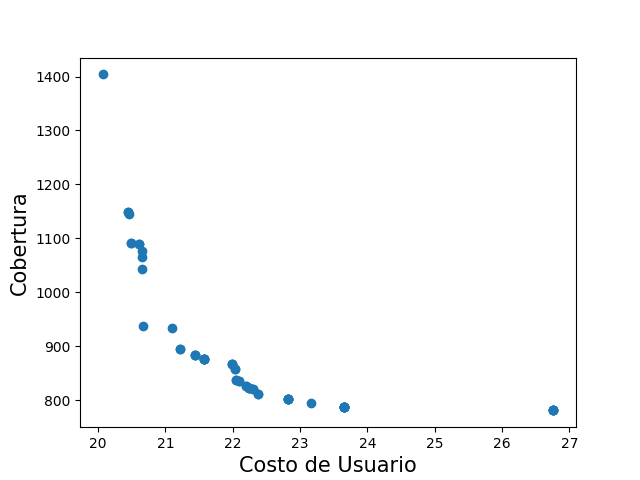
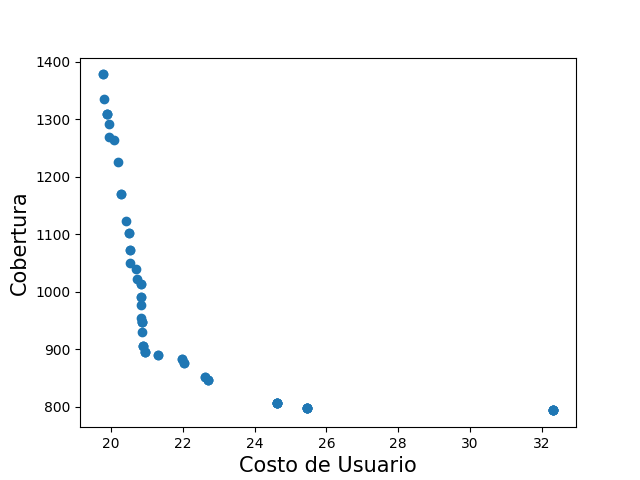
add new tests for networks

diff --git a/new_mumford0.py b/new_mumford0.py
@@ -1,30 +1,28 @@
-
+import time
 import matplotlib.pyplot as plt
 from TNDP import TNDP
-from nsga2 import NSGAII
-import time
+from migration import Migration
 
 def main():
-    num_nodes = 110
+    num_nodes = 30
     tndp = TNDP(num_nodes)
 
-    tndp.read_network_from_file("networks\\Mumford2\\mumford2_links.csv")
-    tndp.read_demand_matrix_from_file("networks\\Mumford2\\mumford2_demand.csv")
+    tndp.read_network_from_file("networks\\Mumford0\\mumford0_links.csv")
+    tndp.read_demand_matrix_from_file("networks\\Mumford0\\mumford0_demand.csv")
 
     g_user_cost = []
     g_coverage = []
-
+    
     start = time.time()
 
-    for nroutes in range(56,57):
-        nsga = NSGAII(num_of_individuals=50, generations=50, tndp=tndp, num_of_routes=nroutes, num_of_tour_particips=2, tournament_prob=0.9, min_route=10, max_route=22  )
+    for nroutes in range(12,13):
+        nsga = Migration(num_population=100, num_of_generations=200, num_islands=4, migration_every_gen=8, num_migrants=4, tndp=tndp, num_of_routes=nroutes, num_of_tour_particips=2, tournament_prob=0.9, min_route=2, max_route=15)
         """
         for i in range(len(nsga.graph.nodes)):
             for edge in nsga.graph.nodes[i]:
                 print("{} - {}".format(i, edge.to))
         """
         final_population = nsga.run()
-
 
         func = [i.objectives for i in final_population]
 
@@ -33,21 +31,21 @@ def main():
 
         g_user_cost.extend(user_cost)
         g_coverage.extend(coverage)
+    
 
     avg_user_cost = sum(g_user_cost) / len(g_user_cost)
     avg_coverage = sum(g_coverage) / len(g_coverage)
 
     print("Costo de Usuario promedio: {}".format(avg_user_cost))
-    print("Cobertura promedio: {}".format(avg_coverage))
+    print("Costo de Operador promedio: {}".format(avg_coverage))
     end = time.time()
     print(f"Tiempo total de ejecucion: {end - start}")
 
     plt.xlabel('Costo de Usuario', fontsize=15)
-    plt.ylabel('Cobertura', fontsize=15)
+    plt.ylabel('Costo de Operador', fontsize=15)
     plt.scatter(g_user_cost, g_coverage)
-    plt.savefig('modern_mumford2.png')
+    plt.savefig('modern_mandl.png')
     plt.show()
-
 
 if __name__ == "__main__":
     main()

diff --git a/new_mumford3.py b/new_mumford3.py
@@ -1,23 +1,23 @@
 
 import matplotlib.pyplot as plt
 from TNDP import TNDP
-from nsga2 import NSGAII
+from migration import Migration
 import time
 
 def main():
-    num_nodes = 110
+    num_nodes = 127
     tndp = TNDP(num_nodes)
 
-    tndp.read_network_from_file("networks\\Mumford2\\mumford2_links.csv")
-    tndp.read_demand_matrix_from_file("networks\\Mumford2\\mumford2_demand.csv")
+    tndp.read_network_from_file("networks\\Mumford3\\mumford3_links.csv")
+    tndp.read_demand_matrix_from_file("networks\\Mumford3\\mumford3_demand.csv")
 
     g_user_cost = []
     g_coverage = []
 
     start = time.time()
 
-    for nroutes in range(56,57):
-        nsga = NSGAII(num_of_individuals=50, generations=50, tndp=tndp, num_of_routes=nroutes, num_of_tour_particips=2, tournament_prob=0.9, min_route=10, max_route=22  )
+    for nroutes in range(60,61):
+        nsga = Migration(num_population=30, num_of_generations=30, num_islands=3, migration_every_gen=5, num_migrants=2, tndp=tndp, num_of_routes=nroutes, num_of_tour_particips=2, tournament_prob=0.9, min_route=12, max_route=25)
         """
         for i in range(len(nsga.graph.nodes)):
             for edge in nsga.graph.nodes[i]:
@@ -39,13 +39,14 @@ def main():
 
     print("Costo de Usuario promedio: {}".format(avg_user_cost))
     print("Cobertura promedio: {}".format(avg_coverage))
+    
     end = time.time()
     print(f"Tiempo total de ejecucion: {end - start}")
 
     plt.xlabel('Costo de Usuario', fontsize=15)
     plt.ylabel('Cobertura', fontsize=15)
     plt.scatter(g_user_cost, g_coverage)
-    plt.savefig('modern_mumford2.png')
+    plt.savefig('modern_mumford3.png')
     plt.show()
 
 

diff --git a/new_mumford1.py b/new_mumford1.py
@@ -1,23 +1,22 @@
 
 import matplotlib.pyplot as plt
 from TNDP import TNDP
-from nsga2 import NSGAII
+from migration import Migration
 import time
 
 def main():
-    num_nodes = 110
+    num_nodes = 70
     tndp = TNDP(num_nodes)
 
-    tndp.read_network_from_file("networks\\Mumford2\\mumford2_links.csv")
-    tndp.read_demand_matrix_from_file("networks\\Mumford2\\mumford2_demand.csv")
+    tndp.read_network_from_file("networks\\Mumford1\\mumford1_links.csv")
+    tndp.read_demand_matrix_from_file("networks\\Mumford1\\mumford1_demand.csv")
 
     g_user_cost = []
     g_coverage = []
 
     start = time.time()
-
-    for nroutes in range(56,57):
-        nsga = NSGAII(num_of_individuals=50, generations=50, tndp=tndp, num_of_routes=nroutes, num_of_tour_particips=2, tournament_prob=0.9, min_route=10, max_route=22  )
+    for nroutes in range(15,16):
+        nsga = Migration(num_population=100, num_of_generations=100, num_islands=4, migration_every_gen=8, num_migrants=4, tndp=tndp, num_of_routes=nroutes, num_of_tour_particips=2, tournament_prob=0.9, min_route=10, max_route=30)        
         """
         for i in range(len(nsga.graph.nodes)):
             for edge in nsga.graph.nodes[i]:
@@ -45,7 +44,7 @@ def main():
     plt.xlabel('Costo de Usuario', fontsize=15)
     plt.ylabel('Cobertura', fontsize=15)
     plt.scatter(g_user_cost, g_coverage)
-    plt.savefig('modern_mumford2.png')
+    plt.savefig('modern_mumford1.png')
     plt.show()
 
 

diff --git a/migration.py b/migration.py
@@ -75,9 +75,6 @@ class Migration:
 
     def migrate(self):
         redistribution_plan = [[] for _ in range(len(self.islands))]
-        print(len(redistribution_plan))
-        print(len(self.islands))
-
 
         for i in range(len(self.islands)):
             migrants = self.islands[i].exile_migrants(self.num_migrants)
@@ -91,12 +88,16 @@ class Migration:
                 future.result()
 
     def run(self):
-        for island in self.islands:
-            island.initialize_island() 
+        with ThreadPoolExecutor(max_workers=12) as executor:
+            futures = [executor.submit(island.initialize_island) for island in self.islands]
+            for future in as_completed(futures) :
+                    future.result()
+
         for generation in range(self.num_of_generations):
+            print(f"Generacion {generation}")
             with ThreadPoolExecutor(max_workers=12) as executor:
                 futures = [executor.submit(island.execute_generation, ind) for ind, island in enumerate(self.islands)]
-                for future in futures:
+                for future in as_completed(futures) :
                     future.result()
             if generation + 1 % self.migration_every_gen == 0:
                 self.migrate()

diff --git a/modern_mumford3.py b/modern_mumford3.py
@@ -2,6 +2,8 @@
 import matplotlib.pyplot as plt
 from TNDP import TNDP
 from nsga2 import NSGAII
+import time
+
 def main():
     num_nodes = 127
     tndp = TNDP(num_nodes)
@@ -12,8 +14,10 @@ def main():
     g_user_cost = []
     g_coverage = []
 
+    start = time.time()
+
     for nroutes in range(60,61):
-        nsga = NSGAII(num_of_individuals=50, generations=20, tndp=tndp, num_of_routes=nroutes, num_of_tour_particips=2, tournament_prob=0.9, min_route=12, max_route=25  )
+        nsga = NSGAII(num_of_individuals=30, generations=30, tndp=tndp, num_of_routes=nroutes, num_of_tour_particips=2, tournament_prob=0.9, min_route=12, max_route=25  )        
         """
         for i in range(len(nsga.graph.nodes)):
             for edge in nsga.graph.nodes[i]:
@@ -35,7 +39,9 @@ def main():
 
     print("Costo de Usuario promedio: {}".format(avg_user_cost))
     print("Cobertura promedio: {}".format(avg_coverage))
-
+    
+    end = time.time()
+    print(f"Tiempo total de ejecucion: {end - start}")
 
     plt.xlabel('Costo de Usuario', fontsize=15)
     plt.ylabel('Cobertura', fontsize=15)

diff --git a/modern_mumford1.py b/modern_mumford1.py
@@ -2,6 +2,8 @@
 import matplotlib.pyplot as plt
 from TNDP import TNDP
 from nsga2 import NSGAII
+import time
+
 def main():
     num_nodes = 70
     tndp = TNDP(num_nodes)
@@ -12,8 +14,10 @@ def main():
     g_user_cost = []
     g_coverage = []
 
+    start = time.time()
+
     for nroutes in range(15,16):
-        nsga = NSGAII(num_of_individuals=50, generations=20, tndp=tndp, num_of_routes=nroutes, num_of_tour_particips=2, tournament_prob=0.9, min_route=10, max_route=30)
+        nsga = NSGAII(num_of_individuals=100, generations=100, tndp=tndp, num_of_routes=nroutes, num_of_tour_particips=2, tournament_prob=0.9, min_route=10, max_route=30)
         """
         for i in range(len(nsga.graph.nodes)):
             for edge in nsga.graph.nodes[i]:
@@ -35,7 +39,8 @@ def main():
 
     print("Costo de Usuario promedio: {}".format(avg_user_cost))
     print("Cobertura promedio: {}".format(avg_coverage))
-
+    end = time.time()
+    print(f"Tiempo total de ejecucion: {end - start}")
 
     plt.xlabel('Costo de Usuario', fontsize=15)
     plt.ylabel('Cobertura', fontsize=15)

diff --git a/modern_mumford0.py b/modern_mumford0.py
@@ -2,6 +2,8 @@
 import matplotlib.pyplot as plt
 from TNDP import TNDP
 from nsga2 import NSGAII
+import time
+
 def main():
     num_nodes = 30
     tndp = TNDP(num_nodes)
@@ -12,8 +14,10 @@ def main():
     g_user_cost = []
     g_coverage = []
 
+    start = time.time()
+
     for nroutes in range(12,13):
-        nsga = NSGAII(num_of_individuals=50, generations=20, tndp=tndp, num_of_routes=nroutes, num_of_tour_particips=2, tournament_prob=0.9, min_route=2, max_route=15)
+        nsga = NSGAII(num_of_individuals=100, generations=100, tndp=tndp, num_of_routes=nroutes, num_of_tour_particips=2, tournament_prob=0.9, min_route=2, max_route=15)
         """
         for i in range(len(nsga.graph.nodes)):
             for edge in nsga.graph.nodes[i]:
@@ -36,6 +40,8 @@ def main():
     print("Costo de Usuario promedio: {}".format(avg_user_cost))
     print("Cobertura promedio: {}".format(avg_coverage))
 
+    end = time.time()
+    print(f"Tiempo total de ejecucion: {end - start}")
 
     plt.xlabel('Costo de Usuario', fontsize=15)
     plt.ylabel('Cobertura', fontsize=15)

diff --git a/new_mumford2.py b/new_mumford2.py
@@ -1,7 +1,7 @@
 
 import matplotlib.pyplot as plt
 from TNDP import TNDP
-from nsga2 import NSGAII
+from migration import Migration
 import time
 
 def main():
@@ -17,7 +17,7 @@ def main():
     start = time.time()
 
     for nroutes in range(56,57):
-        nsga = NSGAII(num_of_individuals=50, generations=50, tndp=tndp, num_of_routes=nroutes, num_of_tour_particips=2, tournament_prob=0.9, min_route=10, max_route=22  )
+        nsga = Migration(num_population=50, num_of_generations=50, num_islands=5, migration_every_gen=5, num_migrants=2, tndp=tndp, num_of_routes=nroutes, num_of_tour_particips=2, tournament_prob=0.9, min_route=10, max_route=22)
         """
         for i in range(len(nsga.graph.nodes)):
             for edge in nsga.graph.nodes[i]:
@@ -39,6 +39,7 @@ def main():
 
     print("Costo de Usuario promedio: {}".format(avg_user_cost))
     print("Cobertura promedio: {}".format(avg_coverage))
+
     end = time.time()
     print(f"Tiempo total de ejecucion: {end - start}")
 

diff --git a/new_mandl.py b/new_mandl.py
@@ -1,4 +1,4 @@
-
+import time
 import matplotlib.pyplot as plt
 from TNDP import TNDP
 from migration import Migration
@@ -13,7 +13,9 @@ def main():
     g_user_cost = []
     g_coverage = []
 
-    for nroutes in range(6,9):
+    start = time.time()
+
+    for nroutes in range(6,7):
         nsga = Migration(num_population=100, num_of_generations=300, num_islands=5, migration_every_gen=20, num_migrants=3, tndp=tndp, num_of_routes=nroutes, num_of_tour_particips=2, tournament_prob=0.9, min_route=2, max_route=8)
         """
         for i in range(len(nsga.graph.nodes)):
@@ -36,7 +38,8 @@ def main():
 
     print("Costo de Usuario promedio: {}".format(avg_user_cost))
     print("Costo de Operador promedio: {}".format(avg_coverage))
-
+    end = time.time()
+    print(f"Tiempo total de ejecucion: {end - start}")
 
     plt.xlabel('Costo de Usuario', fontsize=15)
     plt.ylabel('Costo de Operador', fontsize=15)

diff --git a/modern_mandl.py b/modern_mandl.py
@@ -1,4 +1,4 @@
-
+import time 
 import matplotlib.pyplot as plt
 from TNDP import TNDP
 from nsga2 import NSGAII
@@ -12,7 +12,8 @@ def main():
     g_user_cost = []
     g_coverage = []
 
-    for nroutes in range(6,9):
+    start = time.time()
+    for nroutes in range(6,7):
         nsga = NSGAII(num_of_individuals=100, generations=300, tndp=tndp, num_of_routes=nroutes, num_of_tour_particips=2, tournament_prob=0.9, min_route=2, max_route=8)
         """
         for i in range(len(nsga.graph.nodes)):
@@ -36,7 +37,8 @@ def main():
     print("Costo de Usuario promedio: {}".format(avg_user_cost))
     print("Costo de Operador promedio: {}".format(avg_coverage))
 
-
+    end = time.time()
+    print(f"Tiempo total de ejecucion: {end - start}")
     plt.xlabel('Costo de Usuario', fontsize=15)
     plt.ylabel('Costo de Operador', fontsize=15)
     plt.scatter(g_user_cost, g_coverage)

diff --git a/routeset.py b/routeset.py
@@ -37,8 +37,6 @@ class RouteSet:
                         dt += demand_matrix[i][j] * t
                     else:
                         count += 1
-        if total_demand == 0:
-            return 5 + count / (len(demand_matrix) / 2)
         return dt / total_demand + count / (len(demand_matrix) / 2)
 
     def find_coverage(self, graph, demand_matrix):    
